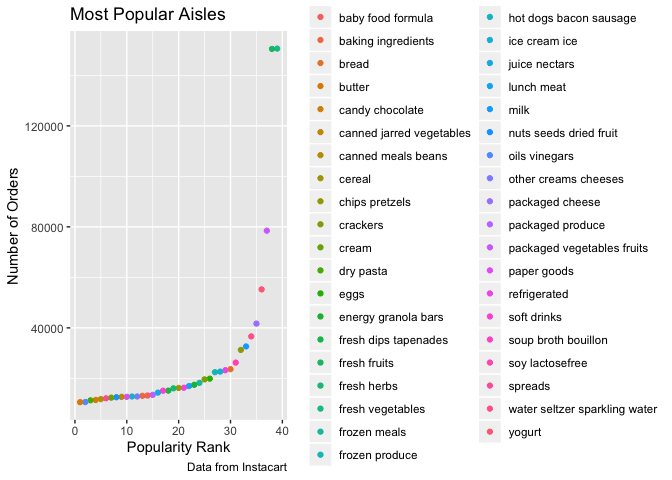
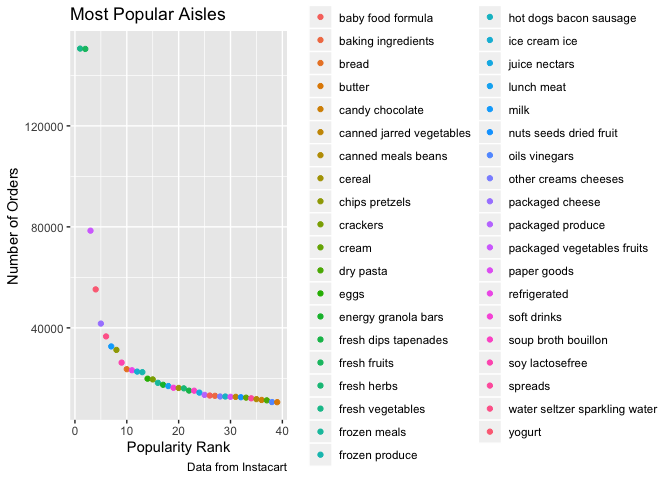
Problem 1 tables

diff --git a/p8105_hw3_jc4166.md b/p8105_hw3_jc4166.md
@@ -11,8 +11,13 @@ data("instacart")
 instacart_data = instacart
 ```
 
-Instagart is a dataset that contains 15 variables and 1,384,551 entries
-describing Instacart customer orders.
+Instagart is a dataset that contains 15 variables and 1384617 entries
+describing Instacart customer orders, which are grocery store orders
+placed online. Each entry represents a single order, and includes
+information on the user who ordered, the day of week and hour of day
+when the item was ordered, the order in which the item was added to
+their cart, and information that categorizes the product into
+departments and aisles.
 
   - How many aisles are there, and which aisles are the most items
     ordered from?
@@ -38,7 +43,7 @@ followed by “fresh fruits” and “packaged vegetables fruits.”
 ``` r
 instacart_aisle_plot = instacart_aisle %>% 
   filter(n_aisle > 10000) %>% 
-  mutate(rank = dense_rank(n_aisle))
+  mutate(rank = rank(-n_aisle))
 
 instacart_aisle_plot %>% 
   ggplot(aes(x = rank, y = n_aisle)) + 
@@ -97,15 +102,56 @@ instacart_data_1c = instacart_data %>%
   count(aisle, product_name, name = "n_product") %>% 
   arrange(desc(n_product)) %>%
   group_by(aisle) %>% 
-  top_n(n = 3, wt = n_product)
+  top_n(n = 3, wt = n_product) %>% 
+  mutate(
+    rank = rank(-n_product)
+  )
 ```
 
-These products and counts do not match the individual counts. ……….
-instacart\_data\_1c = instacart\_data %\>% select(product\_name, aisle)
-%\>% filter( aisle == c(“baking ingredients”, “dog food care”, “packaged
-vegetables fruits”) ) %\>% group\_by(aisle) %\>% count(aisle,
-product\_name, name = “n\_product”) %\>% arrange(desc(n\_product)) %\>%
-top\_n(n = 3, wt = n\_product) ……….
+These products and counts do not match the individual counts.
+
+Alternate code that gives the same results:
+
+``` r
+instacart_data_popular = instacart_data %>% 
+  select(product_name, aisle) %>% 
+  filter(
+    aisle == c("baking ingredients", "dog food care", "packaged vegetables fruits")
+  ) %>% 
+  count(aisle, product_name, name = "n_product")
+
+popular_items_table = instacart_data_popular %>% 
+  group_by(aisle) %>% 
+  mutate(
+    rank = order(order(n_product, decreasing = TRUE))
+  ) %>% 
+  filter(rank < 4) %>% 
+  arrange(aisle, desc(n_product))
+
+knitr::kable(
+  popular_items_table, caption = 'Most Popular Items by Aisle'
+)
+```
+
+| aisle                      | product\_name                                   | n\_product | rank |
+| :------------------------- | :---------------------------------------------- | ---------: | ---: |
+| baking ingredients         | Light Brown Sugar                               |        157 |    1 |
+| baking ingredients         | Pure Baking Soda                                |        140 |    2 |
+| baking ingredients         | Organic Vanilla Extract                         |        122 |    3 |
+| dog food care              | Organix Grain Free Chicken & Vegetable Dog Food |         14 |    1 |
+| dog food care              | Organix Chicken & Brown Rice Recipe             |         13 |    2 |
+| dog food care              | Original Dry Dog                                |          9 |    3 |
+| packaged vegetables fruits | Organic Baby Spinach                            |       3324 |    1 |
+| packaged vegetables fruits | Organic Raspberries                             |       1920 |    2 |
+| packaged vegetables fruits | Organic Blueberries                             |       1692 |    3 |
+
+Most Popular Items by Aisle
+
+………. instacart\_data\_1c = instacart\_data %\>% select(product\_name,
+aisle) %\>% filter( aisle == c(“baking ingredients”, “dog food care”,
+“packaged vegetables fruits”) ) %\>% group\_by(aisle) %\>%
+count(aisle, product\_name, name = “n\_product”) %\>%
+arrange(desc(n\_product)) %\>% top\_n(n = 3, wt = n\_product) ……….
 
   - Make a table showing the mean hour of the day at which Pink Lady
     Apples and Coffee Ice Cream are ordered on each day of the week;
